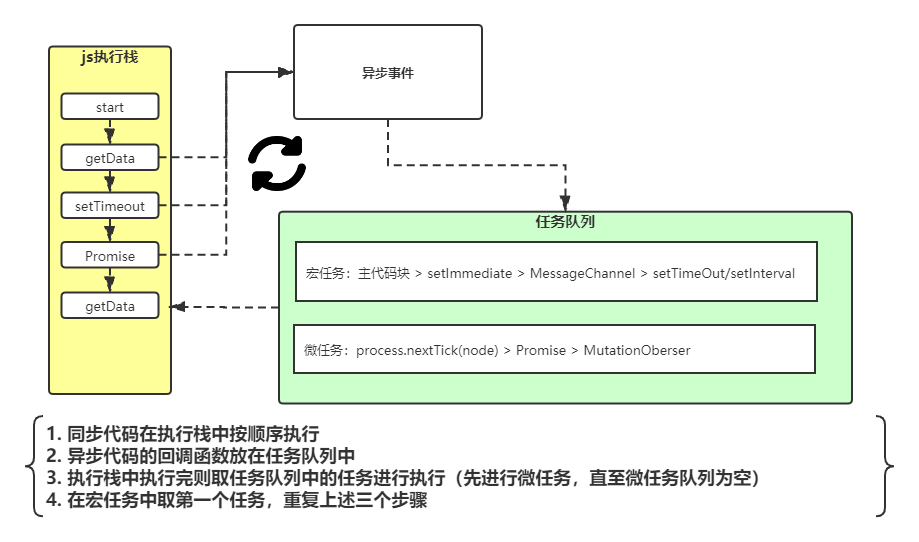
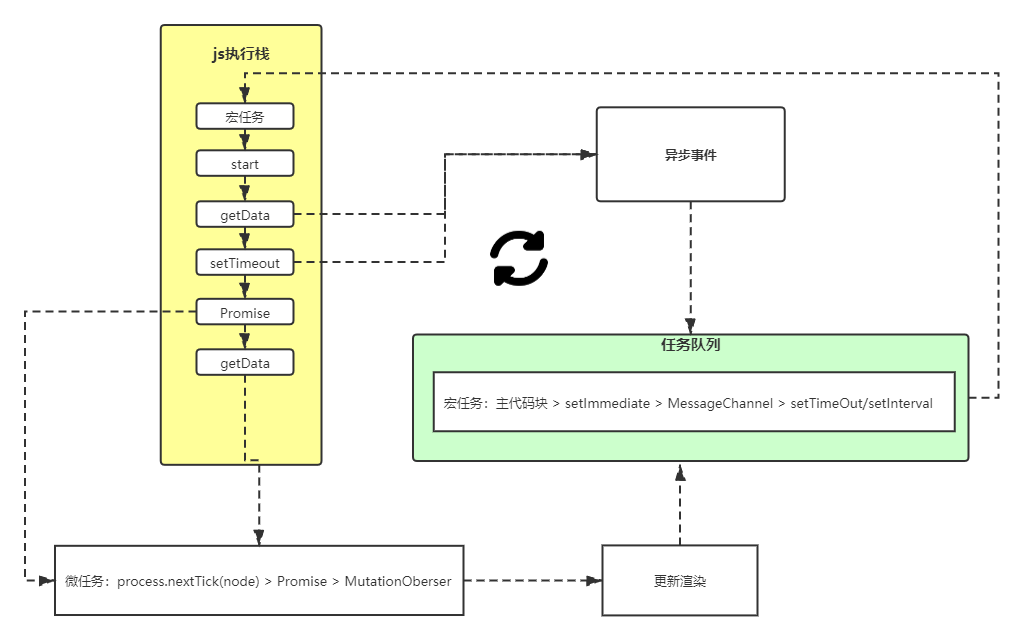
add  url to view blog

diff --git a/_posts/2020-03-28-js-Event-Loop.md b/_posts/2020-03-28-js-Event-Loop.md
@@ -1,13 +1,27 @@
 ---
 layout: post
-title: 'Js Event Loop'
+title: 'Event Loop'
 date: 2020-03-28
 author: ZZChaser
 # cover: 'http://on2171g4d.bkt.clouddn.com/jekyll-banner.png'
 tags: js
 ---
 
-> `js`使用`event loop`来处理异步事件
+> `event loop`是处理异步事件的一种机制
+
+### 理解浏览器的进程/线程模型
+#### 浏览器
+* Browser进程：浏览器主进程，负责主控、协调（一个）
+* 第三方插件进程：使用第三方插件的时候就会创建一个进程
+* GPU进程： 用于3D绘制（一个）
+* Renderer进程（内核）：默认每个tab页一个进程（浏览器可能合并空白tab），控制页面渲染，js脚本执行，事件处理等
+
+#### Renderer进程（内核）
+* GUI线程：辅助页面渲染
+* JS引擎线程：解释和执行JS（与GUI线程互斥：如果不互斥的话，当渲染和操作dom同时执行，就会造成元素不一致）
+* 事件触发线程：管理任务队列(macroTask)
+* 定时器触发线程：（setTimeout，setInterval）计时完毕后将回调函数插入任务队列
+* 异步http请求线程：XMLHttpRequest创建成功后就会新建一个线程。检测到请求状态变更后，就会产生状态变更事件，将回调插入任务队列后
 
 ### 单线程的`js`
 #### 什么是单线程
@@ -15,18 +29,27 @@ tags: js
 #### 为什么`js`采用单线程
 &emsp;&emsp;`js`的主要作用就是用来和页面进行交互，如果是多线程，同一时间对同一dom元素进行操作，就不知道该执行哪一个（Html5提出了Web Worker来使用多核CUP的计算能力，允许`js`创建多线程，但创建的子线程受主线程控制，其中也不能执行Dom的相关操作）
 
-### 任务队列
-&emsp;&emsp;由于单线程的限制，后面的任务只能等待前面的完成才能执行，如果前面的任务执行时间很长，后面的就必须等待。但如果前面存在`I/O`操作（ajax发起网络请求），如果后面任务等待结果才执行的话线程就会在这段时间处于空置，所以设计者就把任务分成同步任务和异步任务。
-* 同步任务：等待上一个任务执行完就立即执行
-* 异步任务：不进入主线程，等待有结果后放入任务队列，主线程的同步任务执行完后，再到异步任务中取出任务执行
-执行机制如下
+### macrotask
+&emsp;&emsp;又称`task`，由`事件触发线程`管理。一个Event Loop有一个或多个`Task Queue`，存放不同任务源的`task`，但对于不同的任务源的任务队列，浏览器会进行调度，允许优先执行来自特定任务源的 Task。
+* setImmediate
+* MessageChannel
+* setTimeout
+* setInterval
 
-```text
-    1. 同步任务在主线程上执行，形成执行栈
-    2. 异步任务返回结果，就在任务队列中放置回调任务
-    3. 执行栈执行完毕就会在任务队列中取出任务进行执行
-    4. 一直重复上诉三个步骤
-```
+### microtask
+&emsp;&emsp;又称`jobs`，存放在`JS引擎线程`微任务队列（Job Queues）中。一个Event Loop只有一个微任务队列（未列举Node环境情况）
+* Promose
+* MutationOberser
+
+### Event Loop
+1. 执行`Task`：从`Task Queue`取出第一个任务进入执行栈
+2. 执行`microtask`：(如果执行栈不为空则跳过)遍历`Microtask Queue`，处理每个任务，直至队列为空
+3. 进入`Update the rendering`（更新渲染）
+   * 设置 Performance API 中 now() 的返回值
+   * 遍历本次 Event Loop 相关的 Documents，执行更新渲染（浏览器判断是否跳过更新）
+   * 确认更新后继续（触发事件 => 执行 animation frame callbacks，window.requestAnimationFrame => 更新 intersection observations，也就是 Intersection Observer API）
+4. 一直重复上诉步骤
+   
 因为主线程一直重复上面的步骤，所以叫做Event Loop。
 
 ### EventLoop图解
@@ -34,4 +57,6 @@ tags: js
 
 ### 参考
 * <a style='color:#0A497B' href='http://www.ruanyifeng.com/blog/2014/10/event-loop.html' target='_blank'>再谈Event Loop</a>
+* <a style='color:#0A497B' href='https://segmentfault.com/a/1190000012925872#item-7' target='_blank'>从浏览器多进程到JS单线程</a>
+* <a style='color:#0A497B' href='https://zhuanlan.zhihu.com/p/34229323' target='_blank'>深入理解 JavaScript Event Loop</a>
 

diff --git a/_posts/2020-03-31-url-to-view.md b/_posts/2020-03-31-url-to-view.md
@@ -1,0 +1,30 @@
+---
+layout: post
+title: '从url到页面'
+date: 2020-03-31
+author: ZZChaser
+# cover: 'http://on2171g4d.bkt.clouddn.com/jekyll-banner.png'
+tags: js
+---
+
+> 在浏览器中输入Url到页面渲染的过程，简单整理
+
+### 1.DNS寻址
+* 浏览器缓存 > 本地缓存 > host > DNS域名服务器
+
+### 2.tcp/ip请求
+* 三次握手
+* 传输数据
+* 四次挥手
+
+### 3.解析页面
+* 解析html，生成dom树（触发DOMContentLoaded）
+* 解析css，生成css规则树（不阻塞dom树的构建）
+* 合并dom树和css规则，生成render树（render树的渲染会等到css规则树生成后开始）
+* 布局render树（reflow），计算元素尺寸、位置
+* 绘制render树，绘制页面
+* 浏览器将各层信息发送给GPU，GPU会将各层合成（composite），显示在屏幕上（随后触发load）
+
+### 参考
+* <a style='color:#0A497B' href='https://zhuanlan.zhihu.com/p/34453198' target='_blank'>从输入URL到页面加载的过程</a>
+
